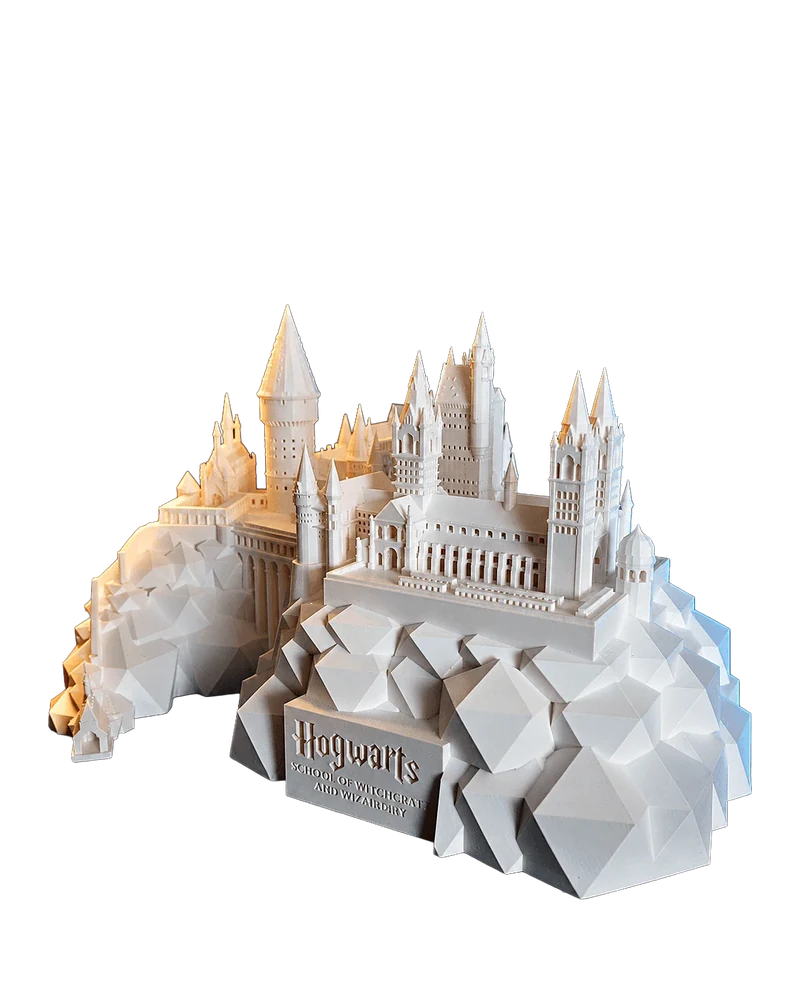
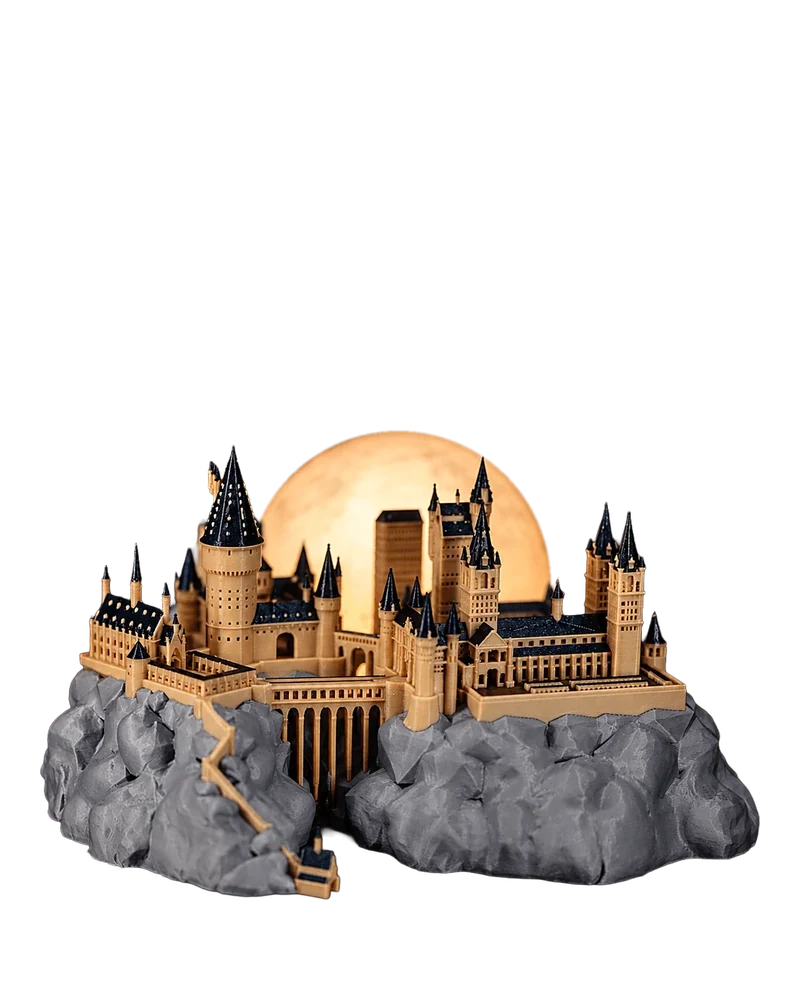
Explora por colección: Harry Potter con la Lámpara Lunar Hogwarts (más colorida)

diff --git a/index.html b/index.html
@@ -307,7 +307,7 @@
             <span>Halloween</span>
           </button>
           <button type="button" class="collection-tile" data-filter="Harry Potter" data-scroll>
-            <img src="assets/hero/tile-harry-potter.webp" alt="" width="800" height="1000" loading="lazy" decoding="async">
+            <img src="assets/hero/tile-harry-potter.webp?v=2" alt="" width="800" height="1000" loading="lazy" decoding="async">
             <span>Harry Potter</span>
           </button>
           <button type="button" class="collection-tile" data-filter="Marvel &amp; DC" data-scroll>
